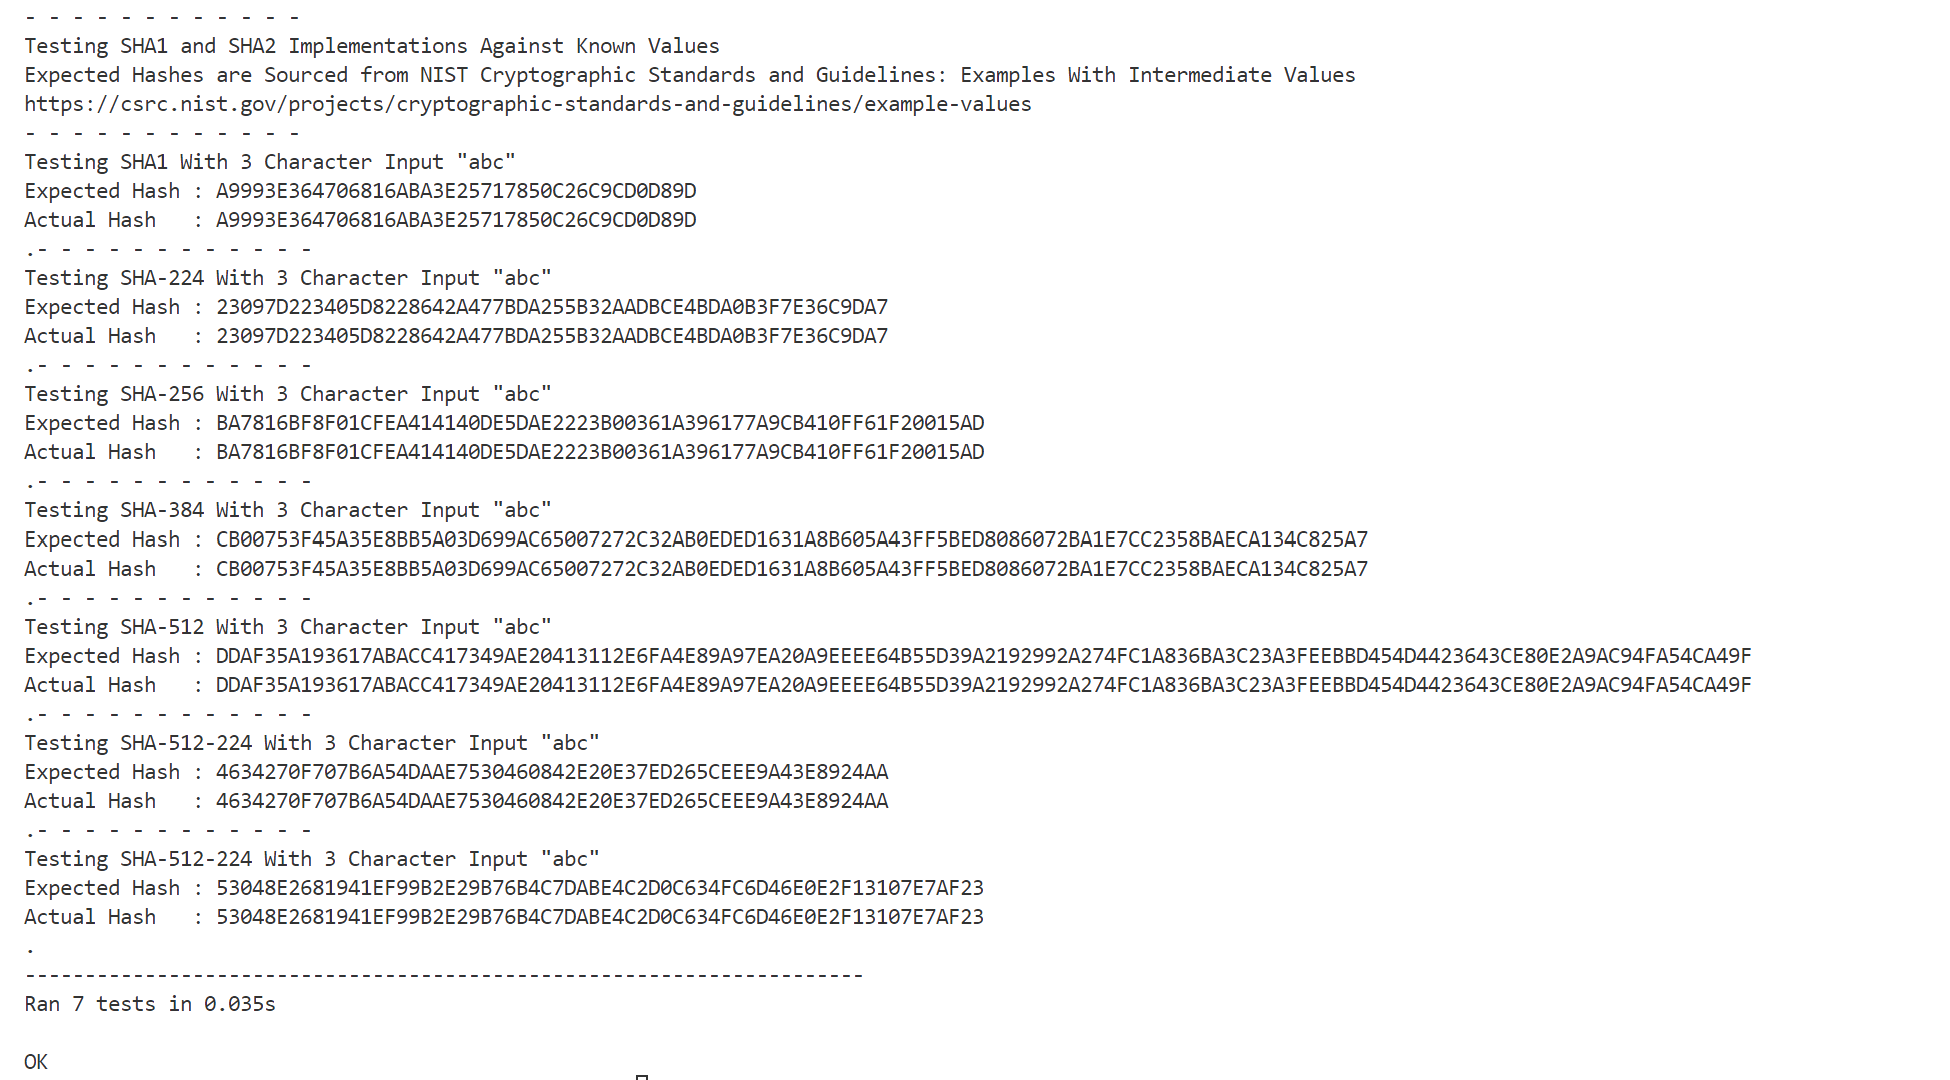
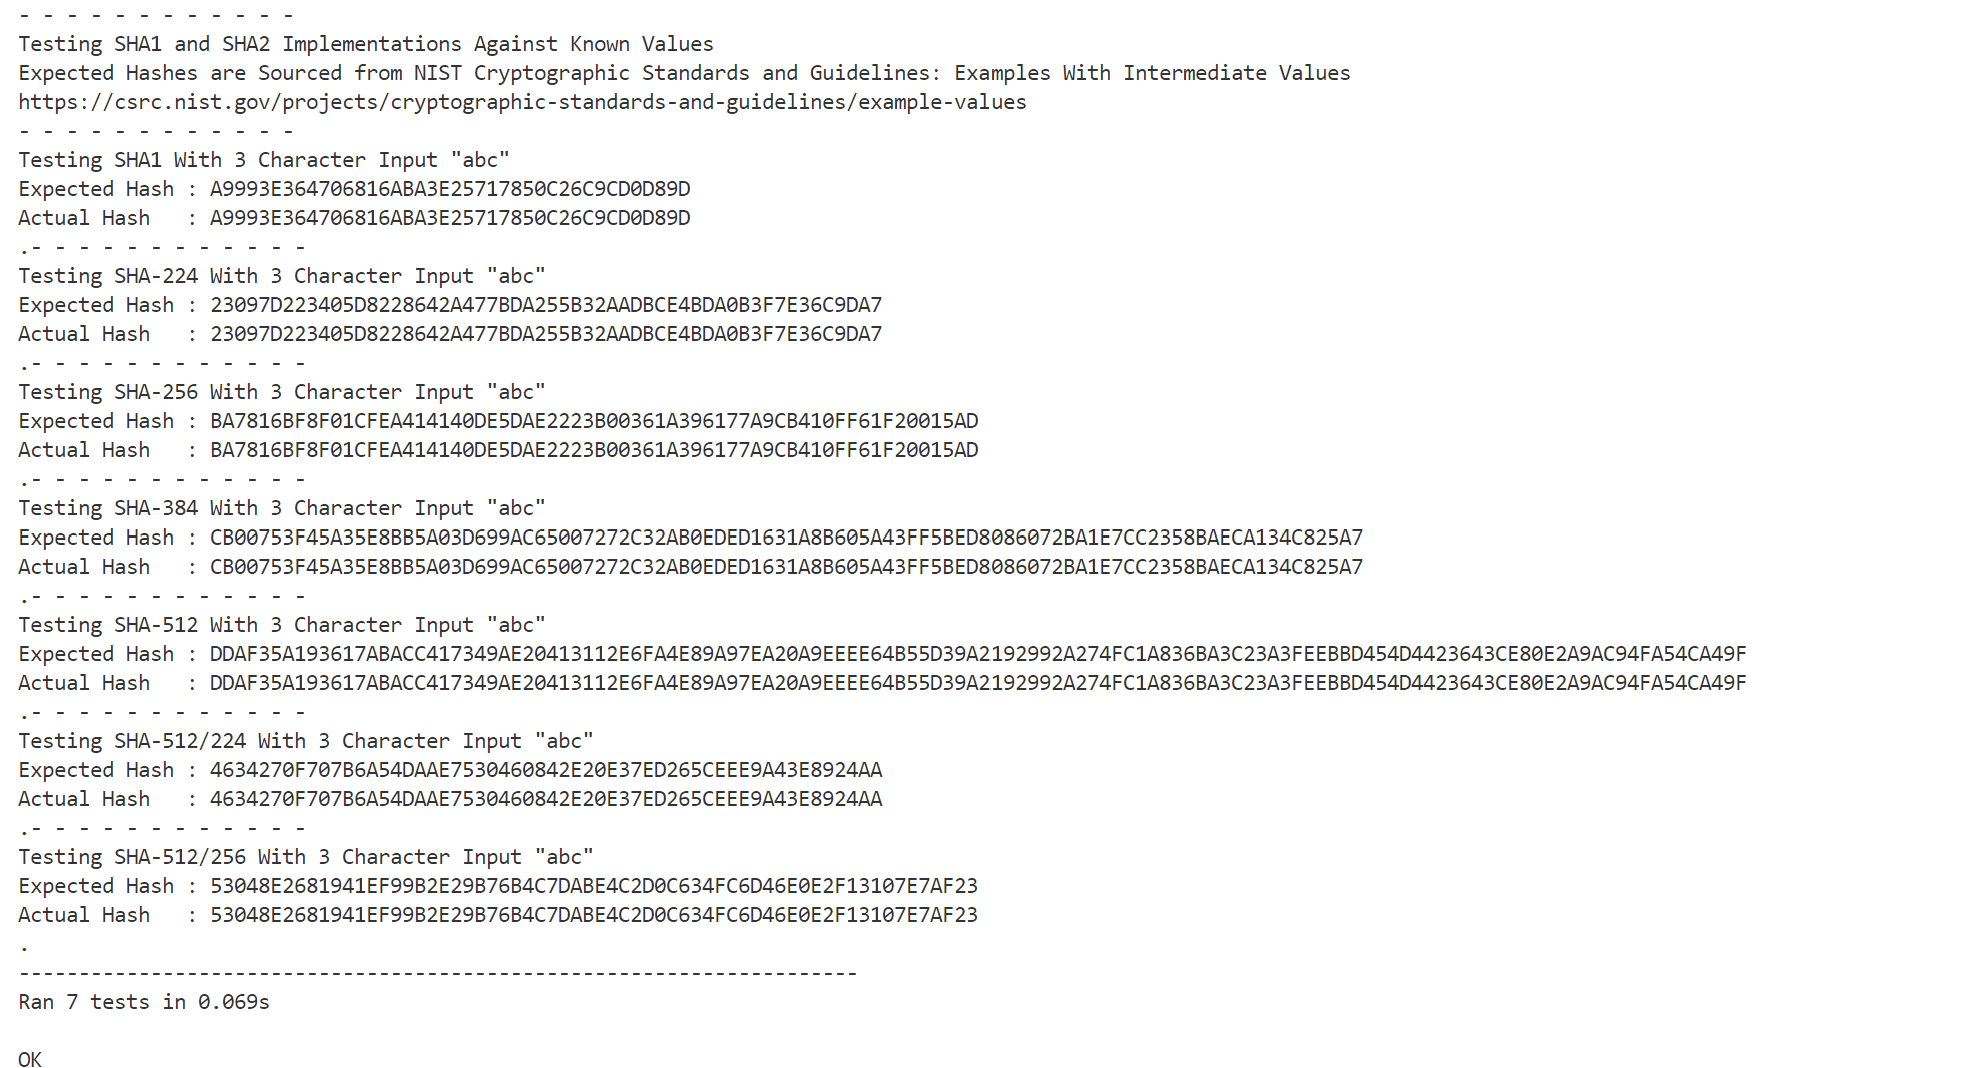
Corrected Typo

diff --git a/CryptographySchemes/OutputImages/SHA1_SHA2_Examples.py b/CryptographySchemes/OutputImages/SHA1_SHA2_Examples.py
@@ -106,7 +106,7 @@ class SHA3_UnitTest(unittest.TestCase):
         result = sha512_224.hashAString(input_string)
         expected_value = "4634270F 707B6A54 DAAE7530 460842E2 0E37ED26 5CEEE9A4 3E8924AA".replace(" ","")
         handler_expected = IntegerHandler.fromHexString(expected_value,False,224)
-        print(f"Testing SHA-512-224 With 3 Character Input \"{input_string}\"")
+        print(f"Testing SHA-512/224 With 3 Character Input \"{input_string}\"")
         print(f"Expected Hash : {handler_expected.getHexString()}")
         print(f"Actual Hash   : {result.getHexString()}")
         
@@ -123,7 +123,7 @@ class SHA3_UnitTest(unittest.TestCase):
         result = sha512_256.hashAString(input_string)
         expected_value = "53048E26 81941EF9 9B2E29B7 6B4C7DAB E4C2D0C6 34FC6D46 E0E2F131 07E7AF23".replace(" ","")
         handler_expected = IntegerHandler.fromHexString(expected_value,False,256)
-        print(f"Testing SHA-512-224 With 3 Character Input \"{input_string}\"")
+        print(f"Testing SHA-512/256 With 3 Character Input \"{input_string}\"")
         print(f"Expected Hash : {handler_expected.getHexString()}")
         print(f"Actual Hash   : {result.getHexString()}")
 
